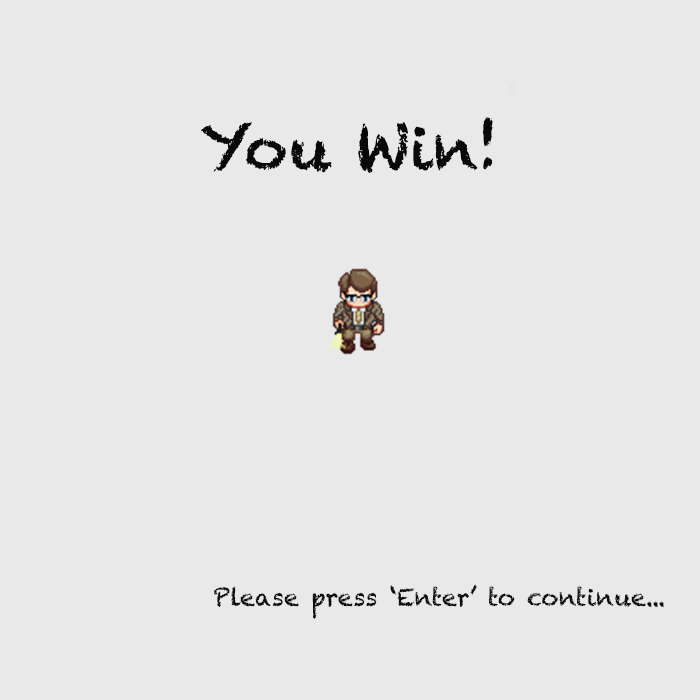
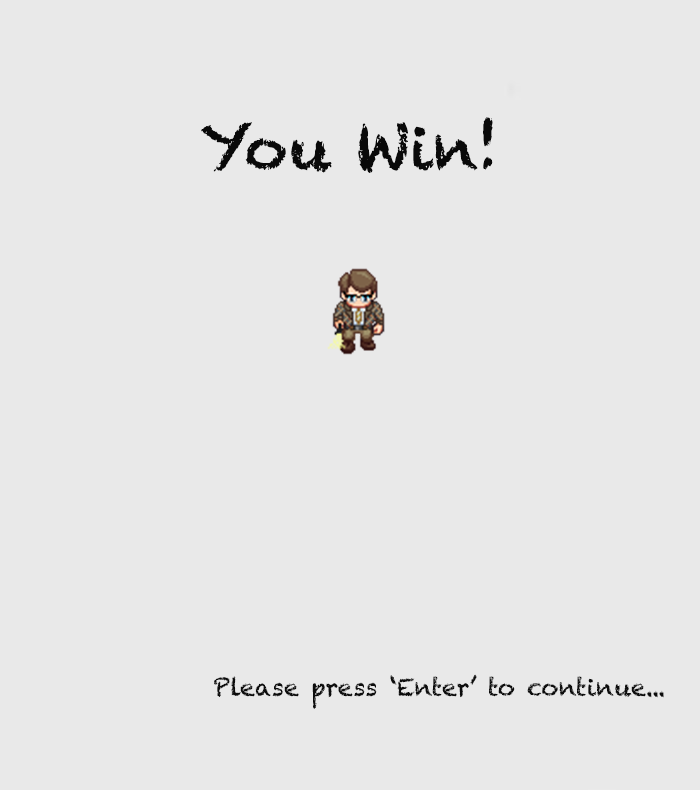
change back to the last version message list rendering and changed the dungeon rendering location

diff --git a/src/main/java/softwareengineering/scarlet/coursework2/views/game/GameView.java b/src/main/java/softwareengineering/scarlet/coursework2/views/game/GameView.java
@@ -1,12 +1,8 @@
 package softwareengineering.scarlet.coursework2.views.game;
 
-import java.awt.BorderLayout;
 import java.awt.Color;
-import java.awt.Container;
-import java.awt.Font;
 import java.awt.Graphics2D;
 import java.awt.image.ImageObserver;
-import javax.swing.JTextArea;
 import softwareengineering.scarlet.coursework2.models.Dungeon;
 import softwareengineering.scarlet.coursework2.models.MessageList;
 import softwareengineering.scarlet.coursework2.models.Monster;
@@ -24,7 +20,7 @@ import softwareengineering.scarlet.coursework2.views.View;
 public class GameView implements View {
   public static final int CELL_HEIGHT = 32;
   public static final int CELL_WIDTH = 32;
-  public static final int TOP_OFFSET = 40;
+  public static final int TOP_OFFSET = 90;
   private MonsterRenderer monsterRenderer;
   private PlayerRenderer playerRenderer;
   private LevelRenderer levelRenderer;
@@ -50,14 +46,12 @@ public class GameView implements View {
     g2d.drawImage(BackgroundFactory.getGameBackground(), 0, 0, observer);
   }
 
-  public void renderMessages(JTextArea textArea) {
+  protected void renderMessages(Graphics2D g2d, ImageObserver observer) {
     if (!MessageList.hasMessages()) {
       return;
     }
-
-    for (int i = 0; i < MessageList.getMessages().size(); i++) {
-      //g2d.drawString(MessageList.getMessages().get(i), 80, 54 + (i * 20));
-      textArea.setText(MessageList.getMessages().get(i));
+    for (int i = 0; i < MessageList.getMessages().size(); i++) {   
+      g2d.drawString(MessageList.getMessages().get(i), 80, 54 + (i * 20));
     }
   }
 
@@ -65,10 +59,10 @@ public class GameView implements View {
   public void render(Graphics2D g2d, ImageObserver observer) {
     g2d.setFont(FontFactory.getSizedFont());
     g2d.setColor(Color.white);
-
     renderBackground(g2d, observer);
     levelRenderer.render(g2d, observer);
     playerRenderer.render(g2d, observer);
+    renderMessages(g2d, observer);
 
     for (Monster monster : monsterRenderer.getDungeon().getCurrentLevel().getMonsters()) {
       monsterRenderer.setMonster(monster);

diff --git a/src/main/java/softwareengineering/scarlet/coursework2/views/Panel.java b/src/main/java/softwareengineering/scarlet/coursework2/views/Panel.java
@@ -1,7 +1,5 @@
 package softwareengineering.scarlet.coursework2.views;
 
-import java.awt.BorderLayout;
-import java.awt.Container;
 import java.awt.Graphics;
 import java.awt.Graphics2D;
 import java.awt.event.KeyEvent;
@@ -22,17 +20,14 @@ import softwareengineering.scarlet.coursework2.controllers.Input;
 public class Panel extends JPanel implements KeyListener {
   private static final long serialVersionUID = 1L;
   private Controller controller;
-  private JTextArea textArea;
 
   /**
    * Creates the JPanel, and applies the necessary application-level settings.
    * @param textArea 
    */
-  public Panel(JTextArea textArea) {
+  public Panel() {
     addKeyListener(this);
     setFocusable(true);
-    //setSize(700, 720);
-    this.textArea = textArea;
     // does not get arrow keys as input
     setFocusTraversalKeysEnabled(false);
   }
@@ -63,7 +58,6 @@ public class Panel extends JPanel implements KeyListener {
 
     // Call the view's render method
     this.controller.getView().render(g2d, this);
-    this.controller.getView().renderMessages(this.textArea);
   }
 
   /**

diff --git a/src/main/java/softwareengineering/scarlet/coursework2/views/Frame.java b/src/main/java/softwareengineering/scarlet/coursework2/views/Frame.java
@@ -1,10 +1,6 @@
 package softwareengineering.scarlet.coursework2.views;
 
-import java.awt.BorderLayout;
-import java.awt.Container;
-import java.awt.Font;
 import javax.swing.JFrame;
-import javax.swing.JTextArea;
 
 /**
  * Wrapper around JFrame.
@@ -17,8 +13,8 @@ import javax.swing.JTextArea;
 public class Frame extends JFrame {
   private static final long serialVersionUID = 1L;
 
-  public Frame(Panel panel, JTextArea textArea) {
-    this.build(panel,textArea);
+  public Frame(Panel panel) {
+    this.build(panel);
   }
 
   /**
@@ -26,10 +22,9 @@ public class Frame extends JFrame {
    *
    * @param panel
    */
-  public void build(Panel panel, JTextArea textArea) {
-    this.add(panel, BorderLayout.CENTER);
-    this.add(textArea,BorderLayout.SOUTH);
-    setSize(700, 730);
+  public void build(Panel panel) {
+    this.add(panel);
+    setSize(700, 760);
     setLocationRelativeTo(null);
     setDefaultCloseOperation(JFrame.EXIT_ON_CLOSE);
     setFocusTraversalKeysEnabled(false); // stops treating arrow keys/tabs as changing focus

diff --git a/src/main/java/softwareengineering/scarlet/coursework2/GameApp.java b/src/main/java/softwareengineering/scarlet/coursework2/GameApp.java
@@ -1,8 +1,6 @@
 package softwareengineering.scarlet.coursework2;
 
 import java.awt.EventQueue;
-import java.awt.Font;
-import javax.swing.JTextArea;
 import softwareengineering.scarlet.coursework2.controllers.AbandonGameController;
 import softwareengineering.scarlet.coursework2.controllers.BackstoryController;
 import softwareengineering.scarlet.coursework2.controllers.GameController;
@@ -48,16 +46,12 @@ public class GameApp implements App {
   private WinController winController;
   private GameoverController gameOverController;
   private AbandonGameController abandonGameController;
-  private JTextArea textArea;
 
 
   public GameApp() {
-    textArea = new JTextArea();
-    textArea.setText("");
-    //textArea.setFont(new Font("Serif", Font.PLAIN, 18));
-    this.panel = new Panel(textArea);
+    this.panel = new Panel();
     this.panel.setSize(700, 720);
-    this.frame = new Frame(this.panel,textArea);
+    this.frame = new Frame(this.panel);
   }
 
   public MenuController getMenuController() {

diff --git a/src/main/java/softwareengineering/scarlet/coursework2/views/SetPreGameView.java b/src/main/java/softwareengineering/scarlet/coursework2/views/SetPreGameView.java
@@ -2,7 +2,6 @@ package softwareengineering.scarlet.coursework2.views;
 
 import java.awt.Graphics2D;
 import java.awt.image.ImageObserver;
-import javax.swing.JTextArea;
 import softwareengineering.scarlet.coursework2.models.SetPreGame;
 
 public class SetPreGameView implements View {
@@ -63,11 +62,5 @@ public class SetPreGameView implements View {
 
   public void setModel(SetPreGame preGameModel) {
     this.model = preGameModel;
-  }
-
-  @Override
-  public void renderMessages(JTextArea textArea) {
-    // TODO Auto-generated method stub
-    
   }
 }

diff --git a/src/main/java/softwareengineering/scarlet/coursework2/views/BackstoryView.java b/src/main/java/softwareengineering/scarlet/coursework2/views/BackstoryView.java
@@ -2,7 +2,6 @@ package softwareengineering.scarlet.coursework2.views;
 
 import java.awt.Graphics2D;
 import java.awt.image.ImageObserver;
-import javax.swing.JTextArea;
 
 public class BackstoryView implements View {
   @Override
@@ -15,12 +14,6 @@ public class BackstoryView implements View {
     g2d.drawString(bsTitle, 200, 170);
 
     g2d.drawImage(BackgroundFactory.getBackstoryBackground(), 0, 0, observer);
-  }
-
-  @Override
-  public void renderMessages(JTextArea textArea) {
-    // TODO Auto-generated method stub
-    
   }
 }
 

diff --git a/src/main/java/softwareengineering/scarlet/coursework2/views/AbandonGameView.java b/src/main/java/softwareengineering/scarlet/coursework2/views/AbandonGameView.java
@@ -4,7 +4,6 @@ import java.awt.Graphics2D;
 import java.awt.Image;
 import java.awt.Toolkit;
 import java.awt.image.ImageObserver;
-import javax.swing.JTextArea;
 import softwareengineering.scarlet.coursework2.models.GameScore;
 
 public class AbandonGameView implements View {
@@ -34,11 +33,5 @@ public class AbandonGameView implements View {
 
   public void setScore(GameScore score) {
     this.score = score;
-  }
-
-  @Override
-  public void renderMessages(JTextArea textArea) {
-    // TODO Auto-generated method stub
-    
   }
 }

diff --git a/src/main/java/softwareengineering/scarlet/coursework2/views/GameoverView.java b/src/main/java/softwareengineering/scarlet/coursework2/views/GameoverView.java
@@ -4,7 +4,6 @@ import java.awt.Graphics2D;
 import java.awt.Image;
 import java.awt.Toolkit;
 import java.awt.image.ImageObserver;
-import javax.swing.JTextArea;
 import softwareengineering.scarlet.coursework2.models.GameScore;
 
 public class GameoverView implements View {
@@ -33,11 +32,5 @@ public class GameoverView implements View {
 
   public void setScore(GameScore score) {
     this.score = score;
-  }
-
-  @Override
-  public void renderMessages(JTextArea textArea) {
-    // TODO Auto-generated method stub
-    
   }
 }

diff --git a/src/main/java/softwareengineering/scarlet/coursework2/views/WinView.java b/src/main/java/softwareengineering/scarlet/coursework2/views/WinView.java
@@ -4,7 +4,6 @@ import java.awt.Graphics2D;
 import java.awt.Image;
 import java.awt.Toolkit;
 import java.awt.image.ImageObserver;
-import javax.swing.JTextArea;
 import softwareengineering.scarlet.coursework2.models.GameScore;
 
 public class WinView implements View {
@@ -34,11 +33,5 @@ public class WinView implements View {
 
   public void setScore(GameScore score) {
     this.score = score;
-  }
-
-  @Override
-  public void renderMessages(JTextArea textArea) {
-    // TODO Auto-generated method stub
-    
   }
 }

diff --git a/src/main/java/softwareengineering/scarlet/coursework2/views/MenuView.java b/src/main/java/softwareengineering/scarlet/coursework2/views/MenuView.java
@@ -3,7 +3,6 @@ package softwareengineering.scarlet.coursework2.views;
 import java.awt.Font;
 import java.awt.Graphics2D;
 import java.awt.image.ImageObserver;
-import javax.swing.JTextArea;
 import softwareengineering.scarlet.coursework2.models.Menu;
 
 /**
@@ -67,11 +66,5 @@ public class MenuView implements View {
 
   public void setOptions(String[] options) {
     this.options = options;
-  }
-
-  @Override
-  public void renderMessages(JTextArea textArea) {
-    // TODO Auto-generated method stub
-    
   }
 }

diff --git a/src/main/java/softwareengineering/scarlet/coursework2/views/View.java b/src/main/java/softwareengineering/scarlet/coursework2/views/View.java
@@ -2,7 +2,6 @@ package softwareengineering.scarlet.coursework2.views;
 
 import java.awt.Graphics2D;
 import java.awt.image.ImageObserver;
-import javax.swing.JTextArea;
 
 /**
  * Classes that implement this can be used by the GameApp to render to the screen.
@@ -21,6 +20,4 @@ public interface View {
    * @param observer An appropriate ImageObserver
    */
   public void render(Graphics2D g2d, ImageObserver observer);
-
-  public void renderMessages(JTextArea textArea);
 }
